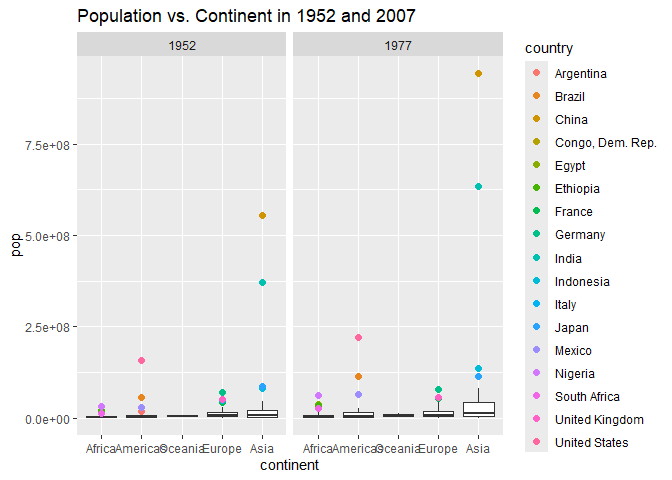
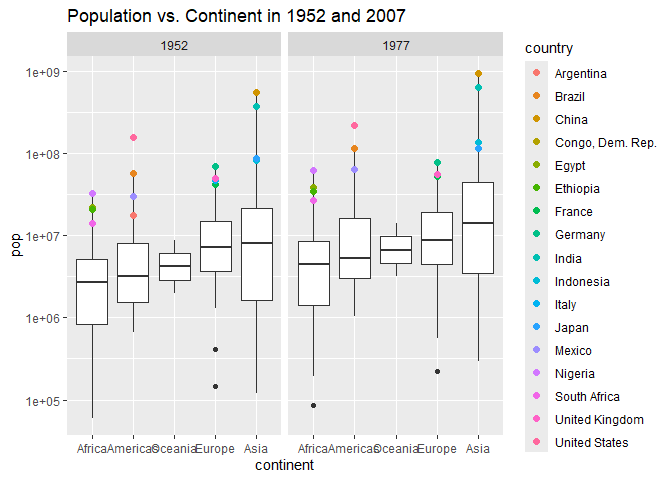
Adjusted scaling to log scale on Q4

diff --git a/challenges/c04-gapminder-assignment.md b/challenges/c04-gapminder-assignment.md
@@ -741,7 +741,8 @@ gapminder %>%
     size = 2
   ) +
   facet_wrap(~year) +
-  labs(title = "Population vs. Continent in 1952 and 2007")
+  labs(title = "Population vs. Continent in 1952 and 2007") +
+  scale_y_log10()
 ```
 
 ![](c04-gapminder-assignment_files/figure-gfm/q5-task3-1.png)<!-- -->
@@ -752,24 +753,27 @@ gapminder %>%
   in each continent between 1952 and 1977?”
 - While this representation is not amazing, due to the plethora of
   countries and large outliers, it was the best graph to represent
-  population vs. continent. The overall answer is that the median
-  population increases some over the span of 25 years; however, the
-  majority of growth is seen in outliers, not the continent’s median
-  itself. Over the span of 25 years, Africa remained the continent with
-  the smallest median population, then the Americas, then Oceania, then
-  Europe and then Asia. When thinking intuitively, this may appear to be
-  surprising as a few countries in America definitely have a larger
-  population than that of Oceania. We see this when looking at outliers,
-  in both 1952 and 1977, Mexico, Brazil and the United States all had a
-  higher population than Oceania. Thus, we see that in specifics,
-  country-to-country level comparison may be better than
-  continent-to-continent as there is a large level of variation in
-  population and sizing of different countries and their populations The
-  main country we see an increase in variation of population size is in
-  Asia–this could be due to more countries growing their population
-  sizes. Additionally, Asia has the most notable outliers – India and
-  China – with the outliers being far above the populations of other
-  countries and the medians of all continents. Thus, while this graph
-  does not tell us too much about continent trends, it tells a lot about
-  outlier trends and gives ideas for future country-to-country
-  comparison.
+  population vs. continent. I decided to change the y-axis scale to a
+  log ten scale to show the variation within countries. However, this
+  limits the extremities of many of the outliers and makes some lower
+  outliers appear that are not actually outliers. The overall answer is
+  that the median population increases some over the span of 25 years;
+  however, the majority of growth is seen in outliers, not the
+  continent’s median itself. Over the span of 25 years, Africa remained
+  the continent with the smallest median population, then the Americas,
+  then Oceania, then Europe and then Asia. When thinking intuitively,
+  this may appear to be surprising as a few countries in America
+  definitely have a larger population than that of Oceania. We see this
+  when looking at outliers, in both 1952 and 1977, Mexico, Brazil and
+  the United States all had a higher population than Oceania. Thus, we
+  see that in specifics, country-to-country level comparison may be
+  better than continent-to-continent as there is a large level of
+  variation in population and sizing of different countries and their
+  populations The main country we see an increase in variation of
+  population size is in Asia–this could be due to more countries growing
+  their population sizes. Additionally, Asia has the most notable
+  outliers – India and China – with the outliers being far above the
+  populations of other countries and the medians of all continents.
+  Thus, while this graph does not tell us too much about continent
+  trends, it tells a lot about outlier trends and gives ideas for future
+  country-to-country comparison.
